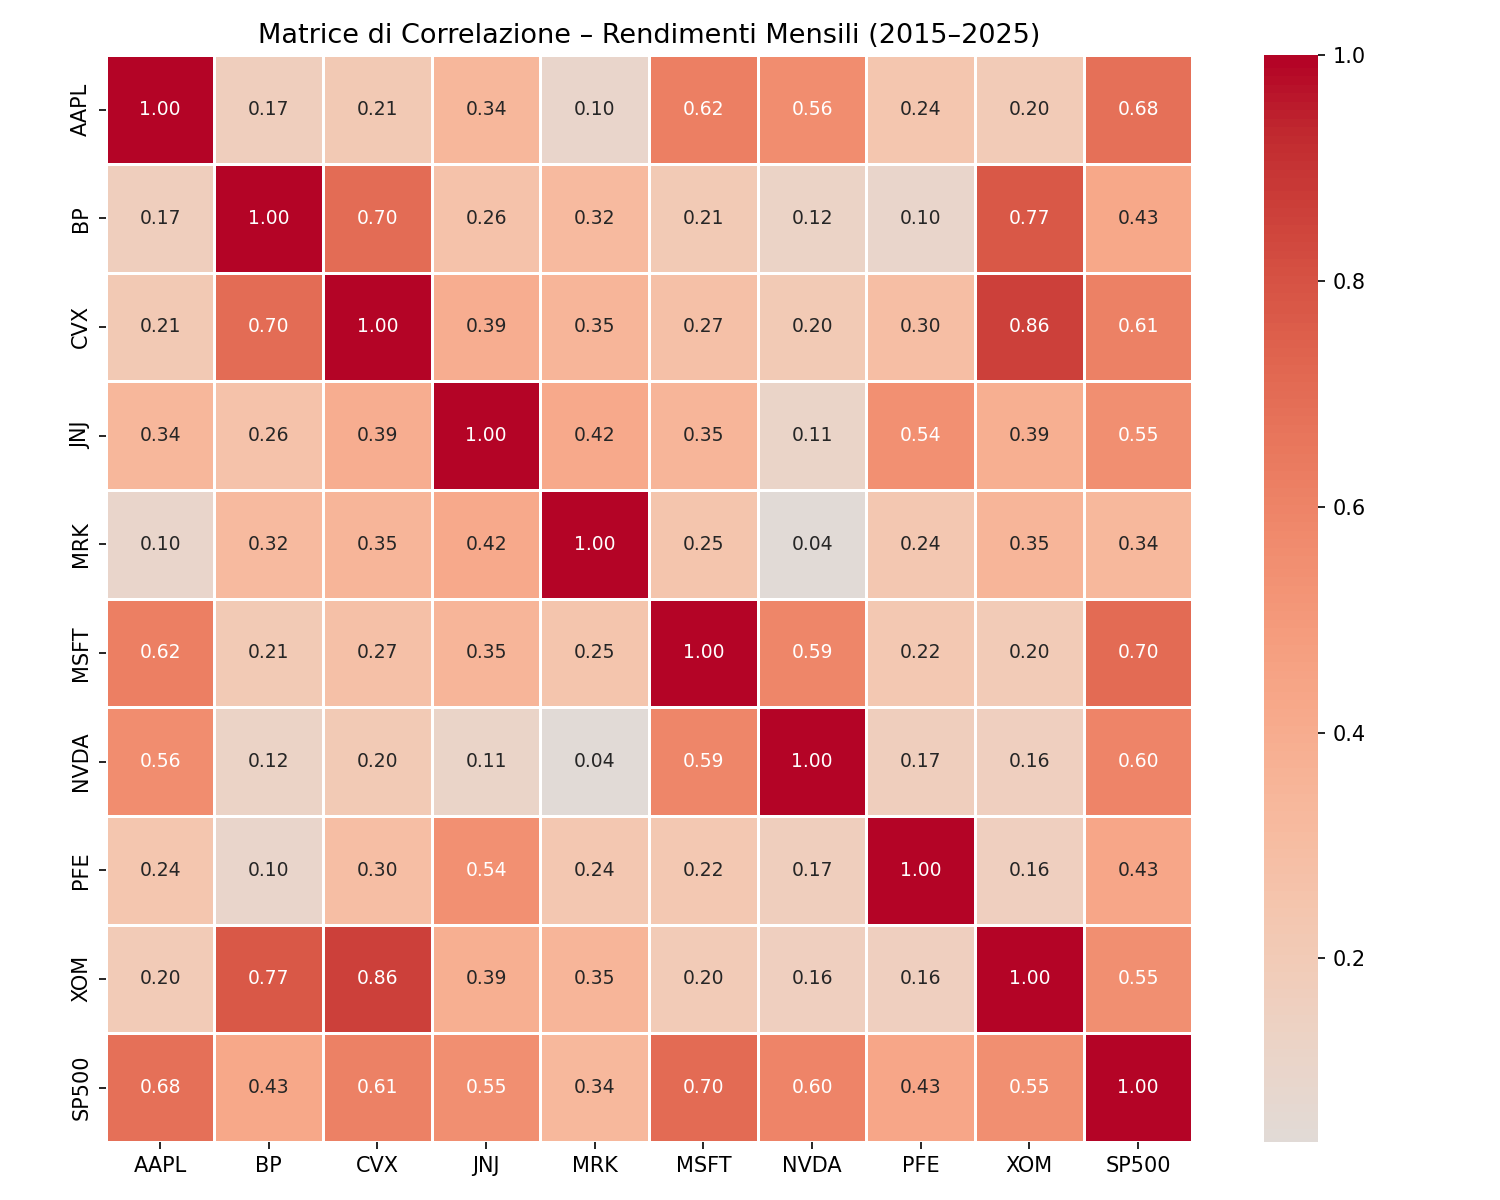
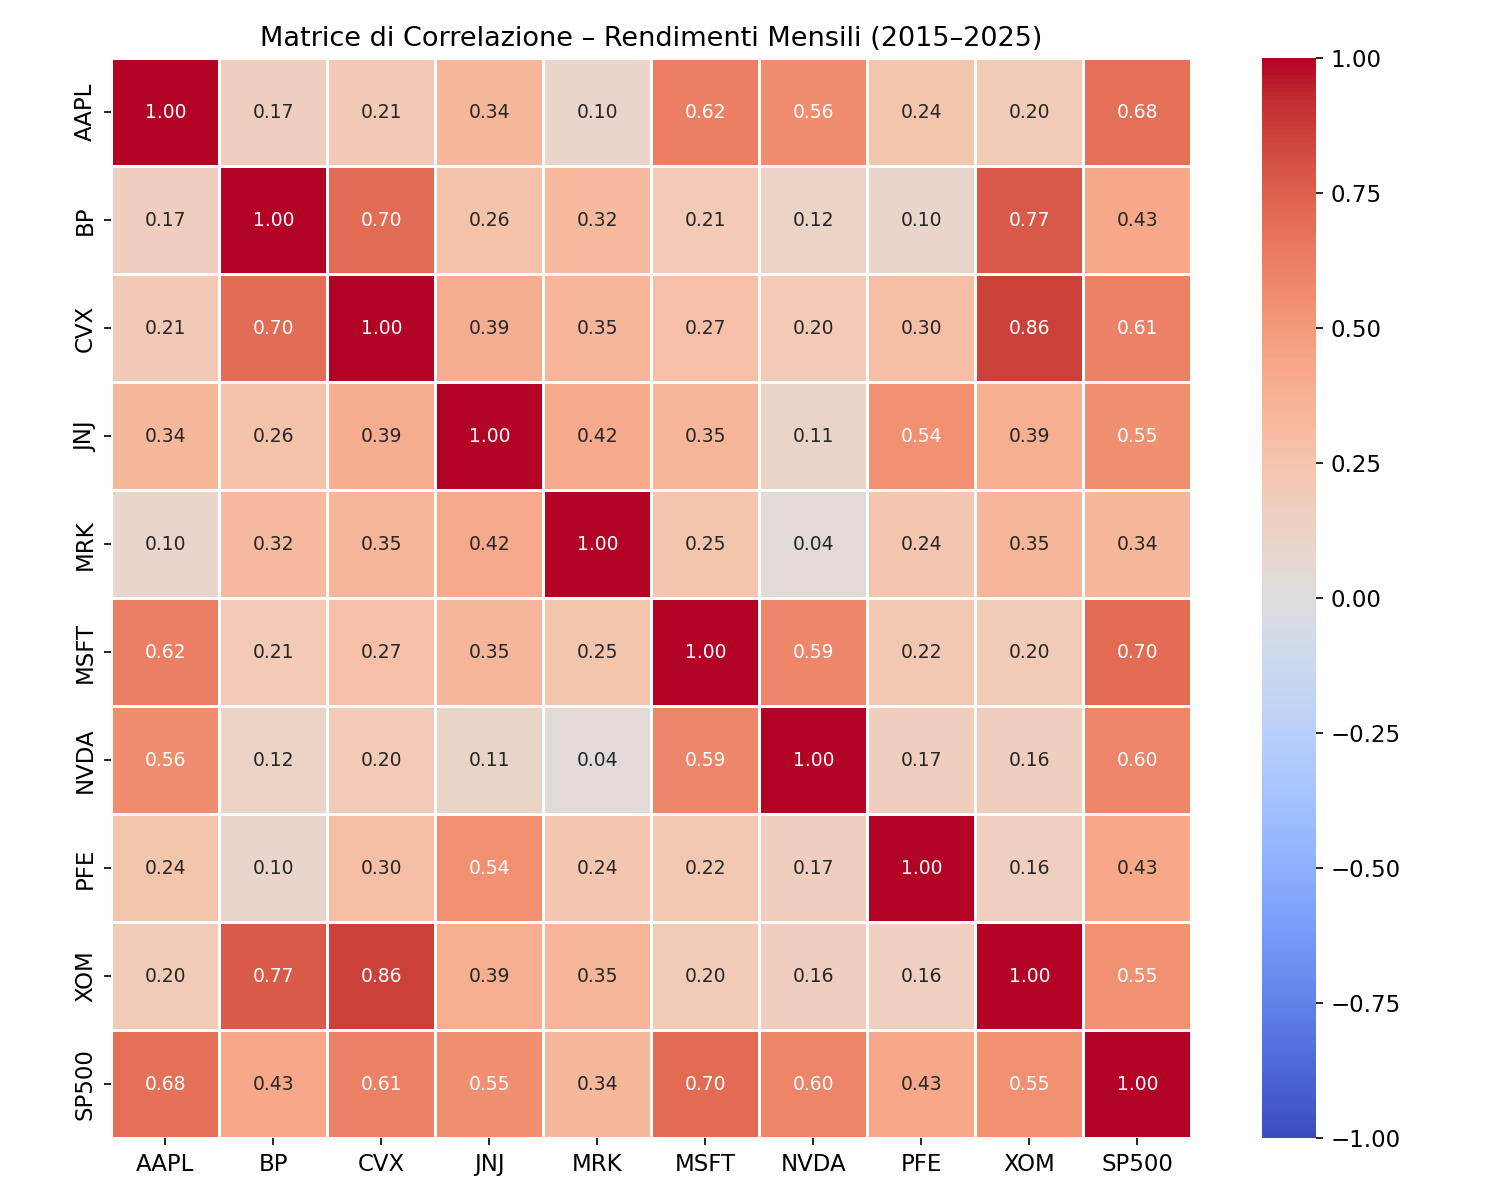
Caricamento notebook e verifica di conformità (sembra tutto ok per la parte A)

diff --git a/parte_A.py b/parte_A.py
@@ -44,6 +44,8 @@
 import yfinance as yf
 import pandas as pd
 import numpy as np
+import matplotlib
+matplotlib.use("Agg")   # backend non-interattivo: salva su file senza aprire finestre
 import matplotlib.pyplot as plt
 import seaborn as sns
 
@@ -211,7 +213,7 @@ def plot_correlation(corr_matrix):
     ax.set_title("Matrice di Correlazione – Rendimenti Mensili (2015–2025)", fontsize=13)
     fig.tight_layout()
     fig.savefig("correlation_heatmap.png", dpi=150)
-    plt.show()
+    plt.close(fig)
     print("Heatmap salvata: correlation_heatmap.png")
 
 
